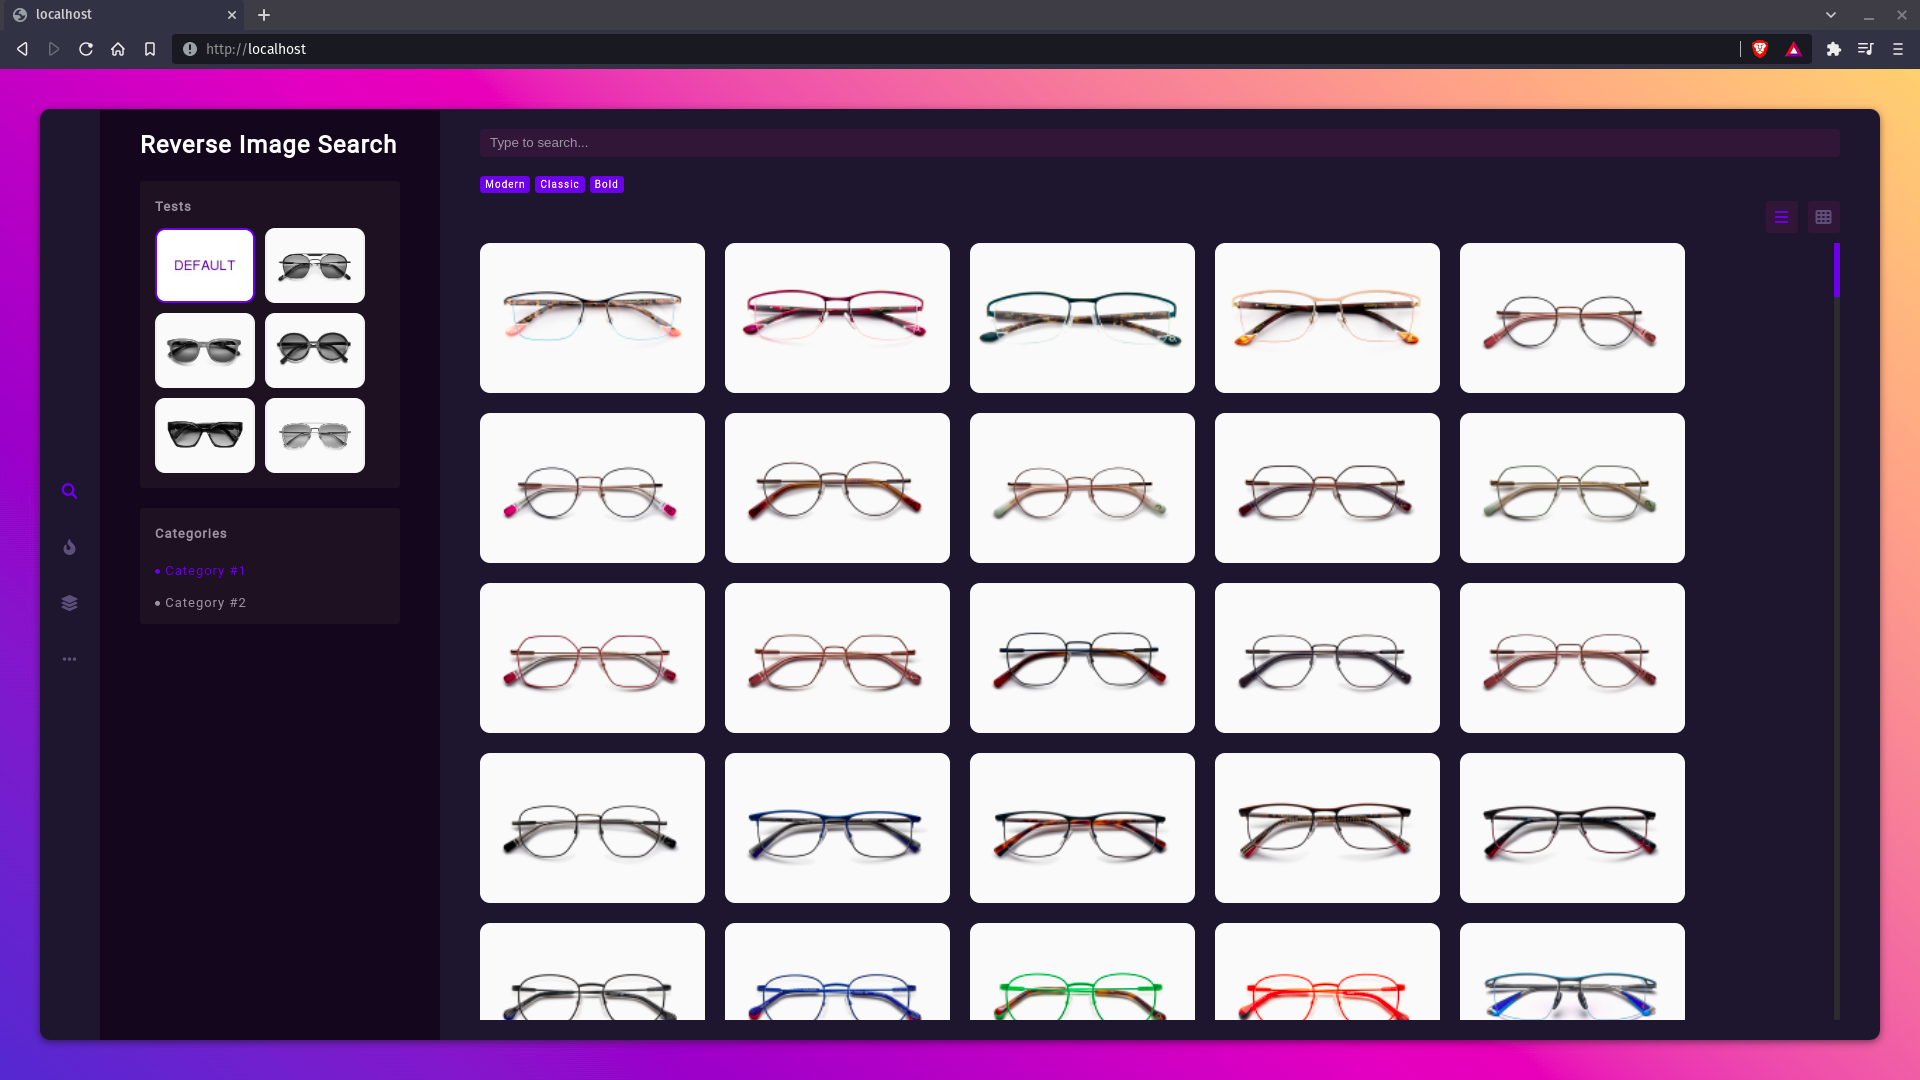
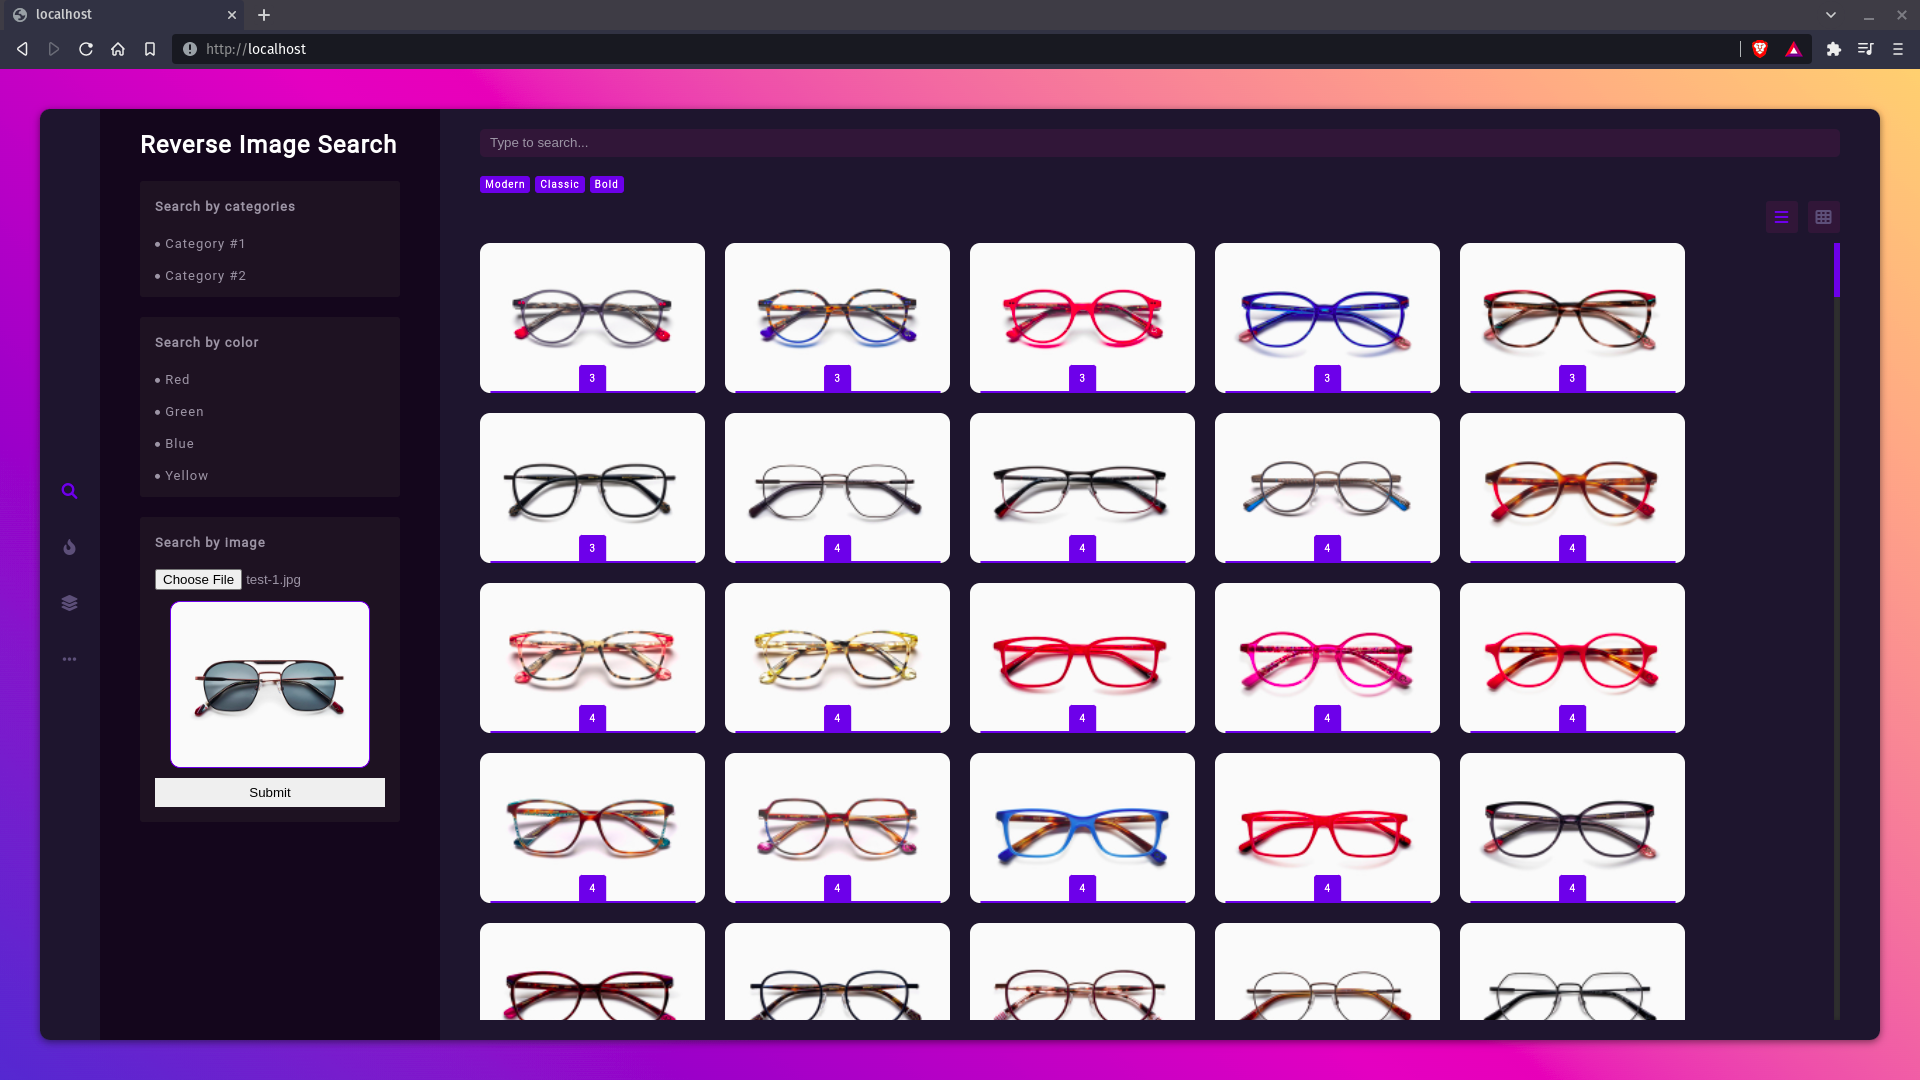
docs(README.md): updated main document with new screenshot and with short description about the mockup

diff --git a/README.md b/README.md
@@ -37,19 +37,19 @@ Desde el punto de vista del ecommerce esta propuesta reduce el número de petici
 
 ### Mockup
 
-Dado que desarrollar todo el flujo de principio a fin está fuera del alcance de esta demostración, esta aplicación tendrá mockeado algunos aspectos superficiales y se centrará única y exclusivamente en cubrir de una manera muy simple la mejora del buscador.
+Para poder mostrar este caso de uso se ha creado un pequeño componente reactivo en Vue que permita hacer las búsquedas y mostrar el resultado de una manera dinámica:
 
 ![thumb](./screenshot.png)
-
 
 
 ## Construído con
 
 * [Docker](https://www.docker.com/) - La manera más rápida de crear aplicaciones en contenedores.
 * [nginx](https://www.nginx.com/) - Servidor web, balanceador de carga avanzado y reverse proxy todo en uno.
-* [PHP-FPM](https://www.php.net/) -  Lenguaje de programación generalista que está especialmente diseñado para el desarrollo web.
-* Make - Utilidad make GNU para mantener grupos de programas.
+* [PHP-FPM](https://www.php.net/) - Lenguaje de programación generalista que está especialmente diseñado para el desarrollo web.
+* [ImageMagick](https://imagemagick.org/) - Software que permite manipular imágenes desde el lado del servidor.
 * [VueJS](https://vuejs.org/) - Un framework JavaScript progresivo.
+* Make - Utilidad make GNU para mantener grupos de programas.
 
 ## Requisitos
 
@@ -84,6 +84,8 @@ La aplicación cuenta con un Makefile que contiene todos los comandos útiles pa
 ```bash
 ~demos/perceptual-hashes$ make up
 ```
+
+> Ahora ya puedes acceder al servicio usando tu navegador favorito desde la URL`http://localhost` 
 
 ### Parando el servicio
 
